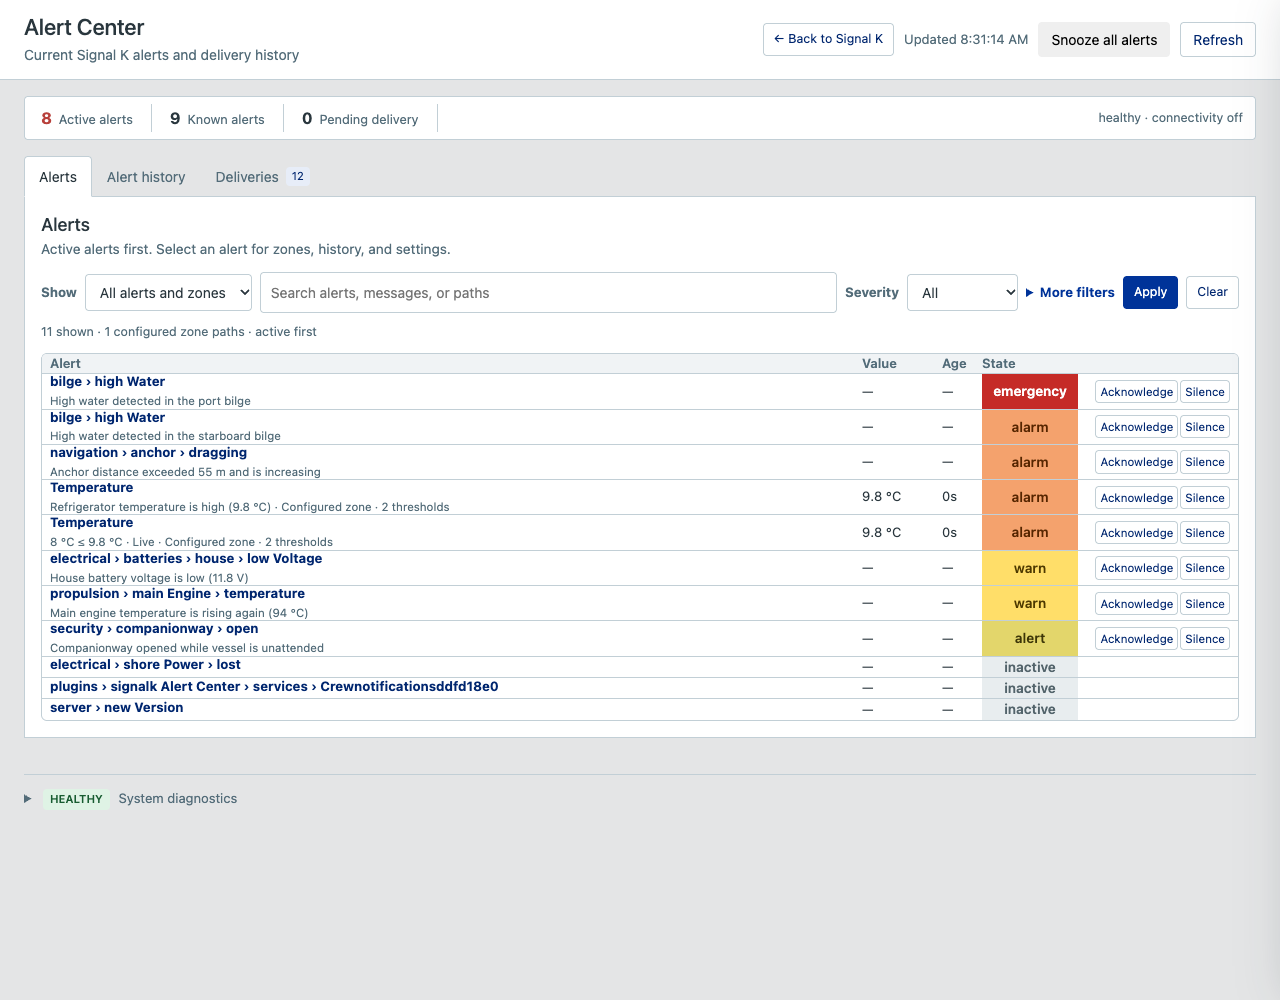
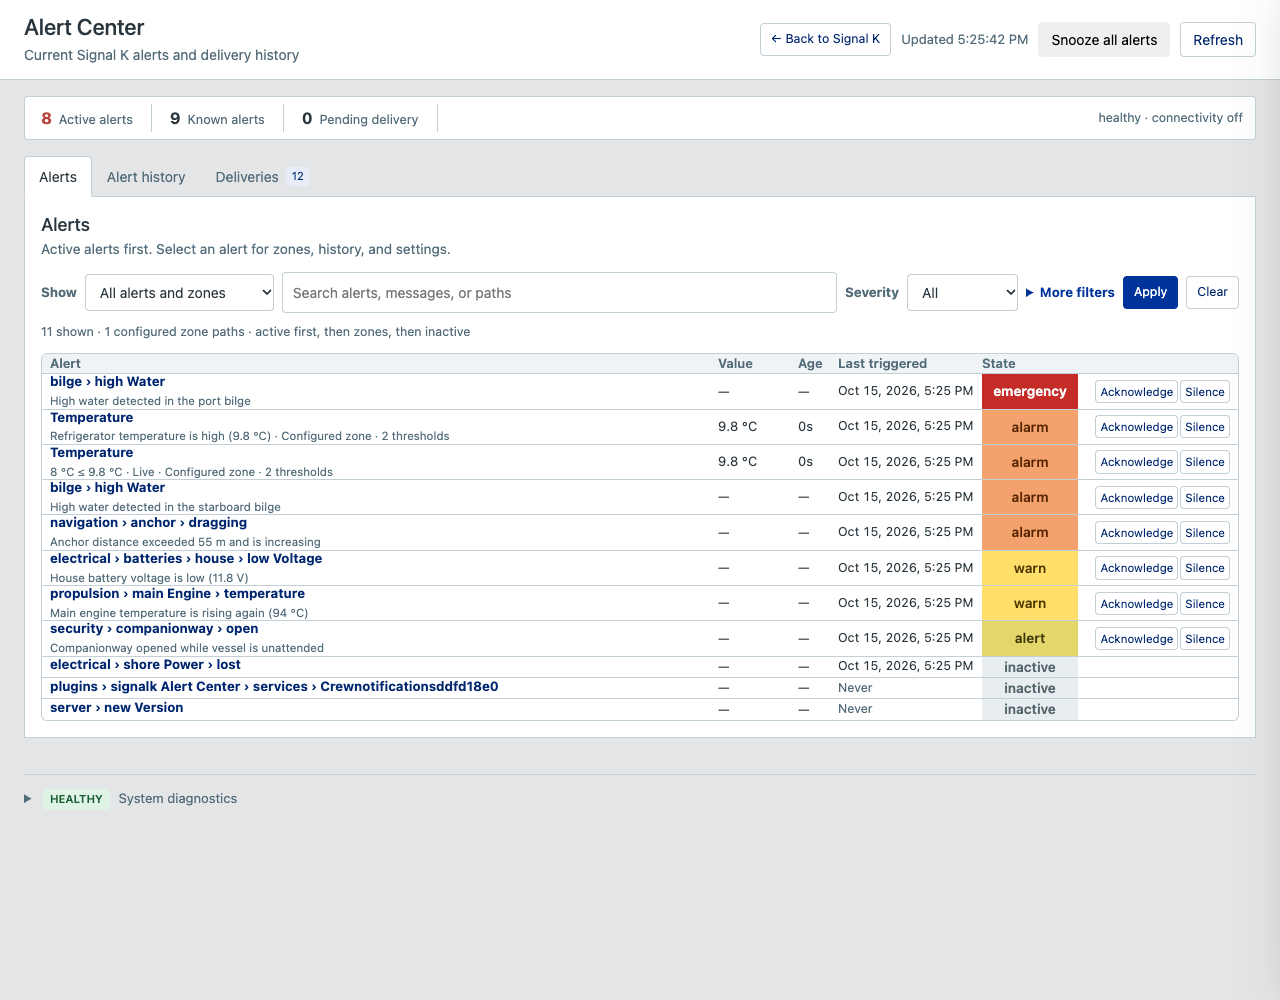
chore(release): prepare 0.4.0 (#91)

diff --git a/CHANGELOG.md b/CHANGELOG.md
@@ -5,7 +5,25 @@ Versioning while it remains pre-1.0.
 
 ## [Unreleased]
 
-- Added the persistent Signal K control `digital.alertCenter.quietHours.enabled` to temporarily bypass all saved quiet-hours schedules. The dashboard clearly marks the override and each affected notifier; setting the path back to `true` restores the unchanged schedules.
+Future changes intended for the next release belong here.
+
+## [0.4.0] - 2026-10-15
+
+### Alert overview
+
+- Restore the **Last triggered** column so each alert definition shows when its
+  most recent occurrence started, or **Never** when it has not fired.
+- Add clear spacing between **Last triggered** and the coloured **State** column
+  on desktop and tablet layouts.
+
+### Quiet hours
+
+- Add the persistent Signal K PUT control
+  `digital.alertCenter.quietHours.enabled`. Set it to `false` to bypass every
+  saved per-service quiet-hours schedule and to `true` to restore them without
+  changing their configuration.
+- Clearly mark a disabled quiet-hours override in the dashboard banner,
+  diagnostics, and affected notification-service cards.
 
 ### Snooze safety
 
@@ -15,14 +33,15 @@ Versioning while it remains pre-1.0.
 - Clearly mark an active but bypassed snooze in the dashboard and diagnostics,
   and recommend Signal K Auto State as an optional state provider.
 
-Future changes intended for the next release belong here.
+### Upgrading
 
-### Alert overview
-
-- Restore the **Last triggered** column so each alert definition shows when its
-  most recent occurrence started, or **Never** when it has not fired.
-- Add clear spacing between **Last triggered** and the coloured **State** column
-  on desktop and tablet layouts.
+- No database migration or new dependency is required. Existing installations
+  keep their current behavior because the navigation-state snooze guard is
+  opt-in and quiet hours remain enabled by default.
+- Signal K Auto State is recommended only when the navigation-state guard is
+  enabled and no other source publishes `navigation.state`.
+- Version 0.3.0 can read the same database if a rollback is necessary, but it
+  does not understand the quiet-hours override or navigation-state snooze guard.
 
 ## [0.3.0] - 2026-10-12
 

diff --git a/README.md b/README.md
@@ -25,7 +25,7 @@ alert list and history without configuring any notification service.
 [Snooze](#snooze-all-alerts) ·
 [Quiet hours](#quiet-hours-per-notification-service)
 
-![Alert Center showing active alerts and defined zones](./docs/screenshots/alert-center-overview.png)
+![Alert Center showing active alerts, defined zones, and when each alert last triggered](./docs/screenshots/alert-center-overview.png)
 
 ## Why use it?
 
@@ -36,9 +36,10 @@ current value changes:
 - **See what needs attention now.** Active alerts appear first in one compact
   list, followed by configured zones with no active alert (shown as Normal),
   then inactive discovered alerts. All definitions are loaded without a
-  history-based “Load more” button. Choose **Zones and active alerts** to hide
-  inactive discovered alerts. Normal means no active alert has been reported;
-  it does not certify sensor availability or freshness.
+  history-based “Load more” button, and **Last triggered** shows the start of
+  each alert's most recent occurrence. Choose **Zones and active alerts** to
+  hide inactive discovered alerts. Normal means no active alert has been
+  reported; it does not certify sensor availability or freshness.
 - **Keep the full story.** Raises, meaningful updates, clears,
   acknowledgements, silences, and delivery results remain available after a
   restart.
@@ -223,7 +224,7 @@ npm ci
 npm run build
 npm pack
 cd ~/.signalk
-npm install /path/to/signalk-alert-center-0.1.0.tgz
+npm install /path/to/signalk-alert-center-0.4.0.tgz
 ```
 
 Restart Signal K after installation. Docker installations should run the final
